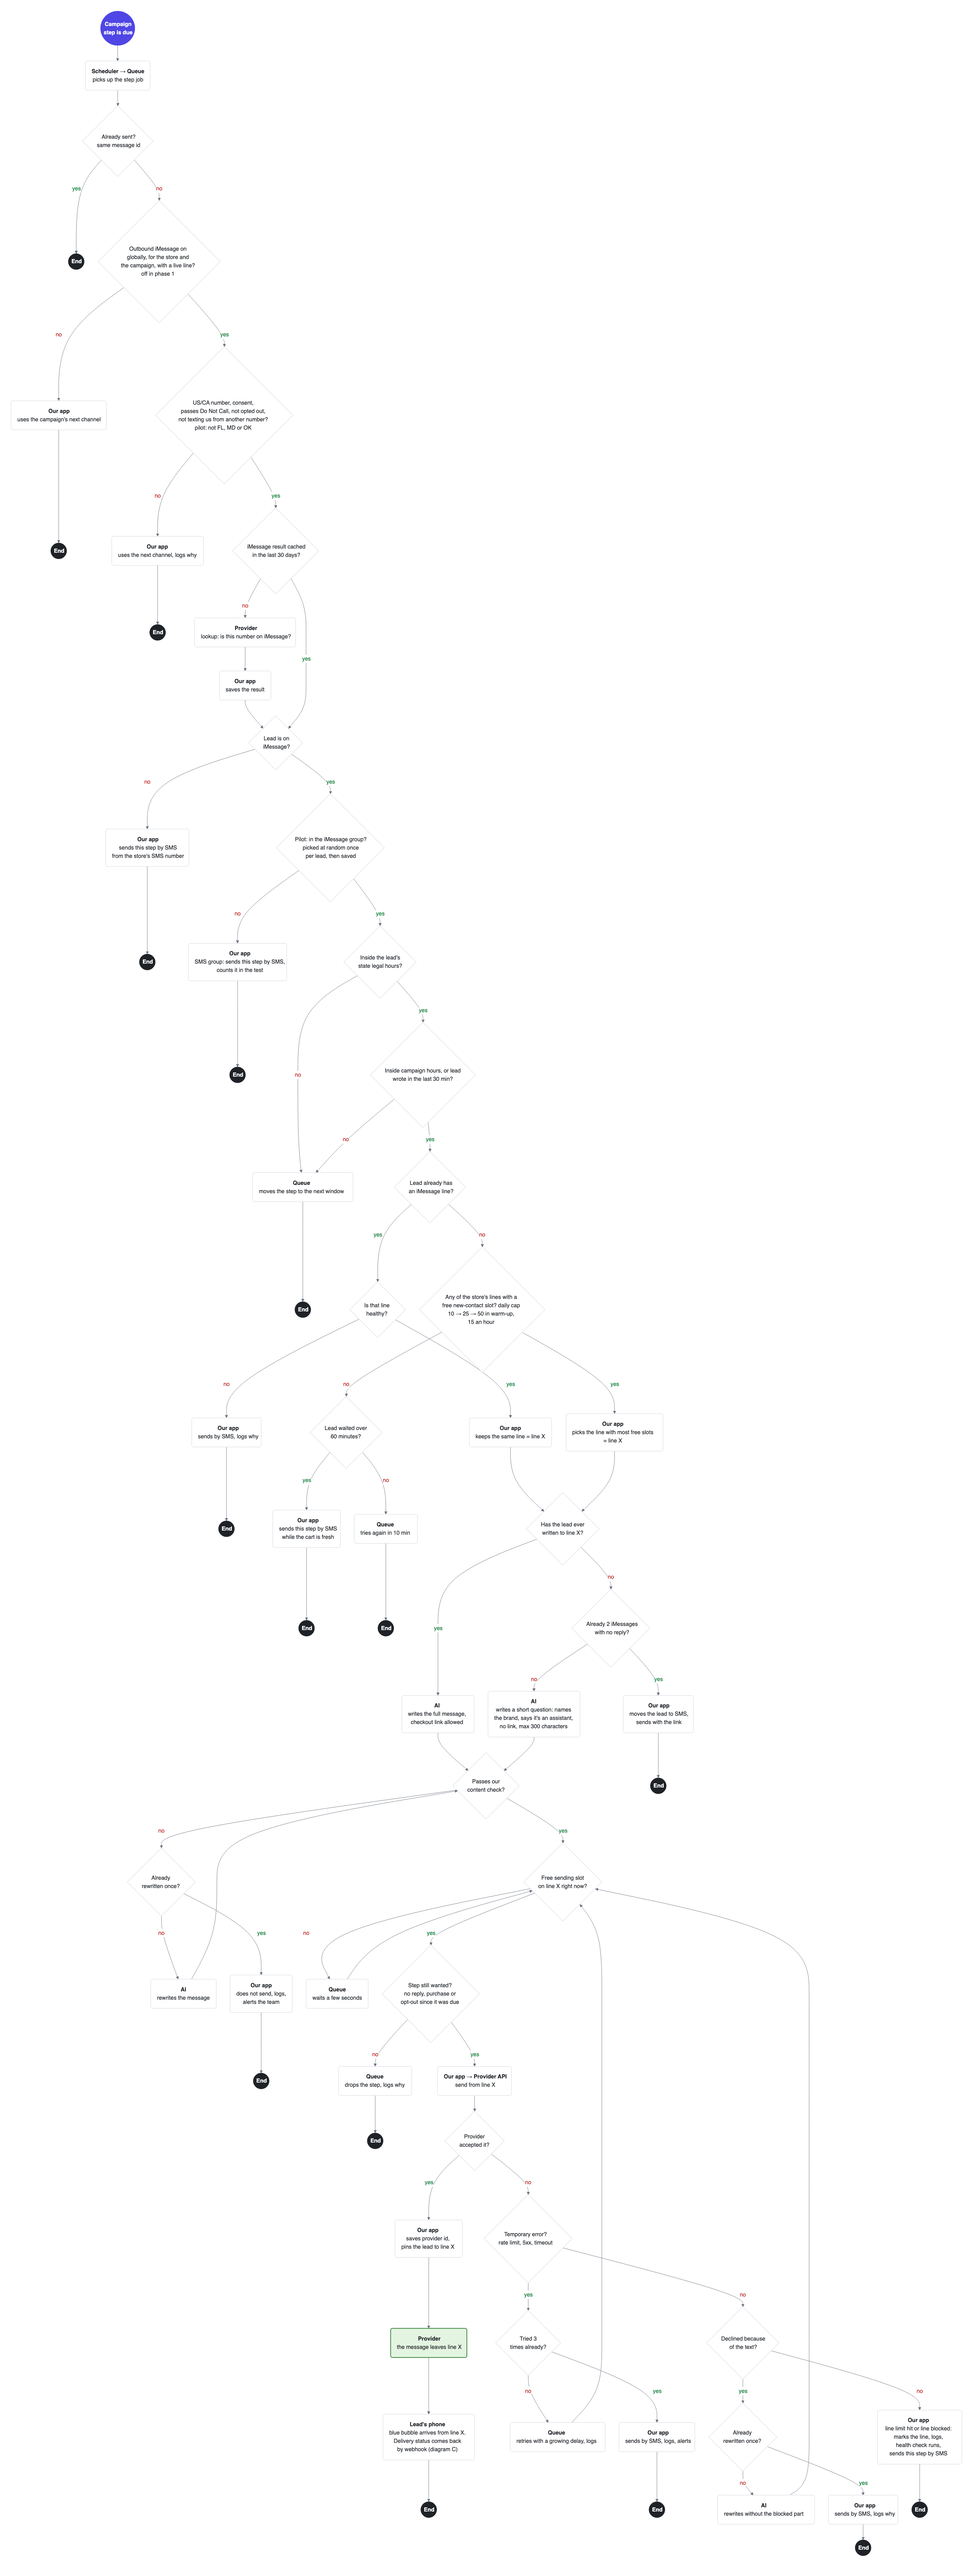
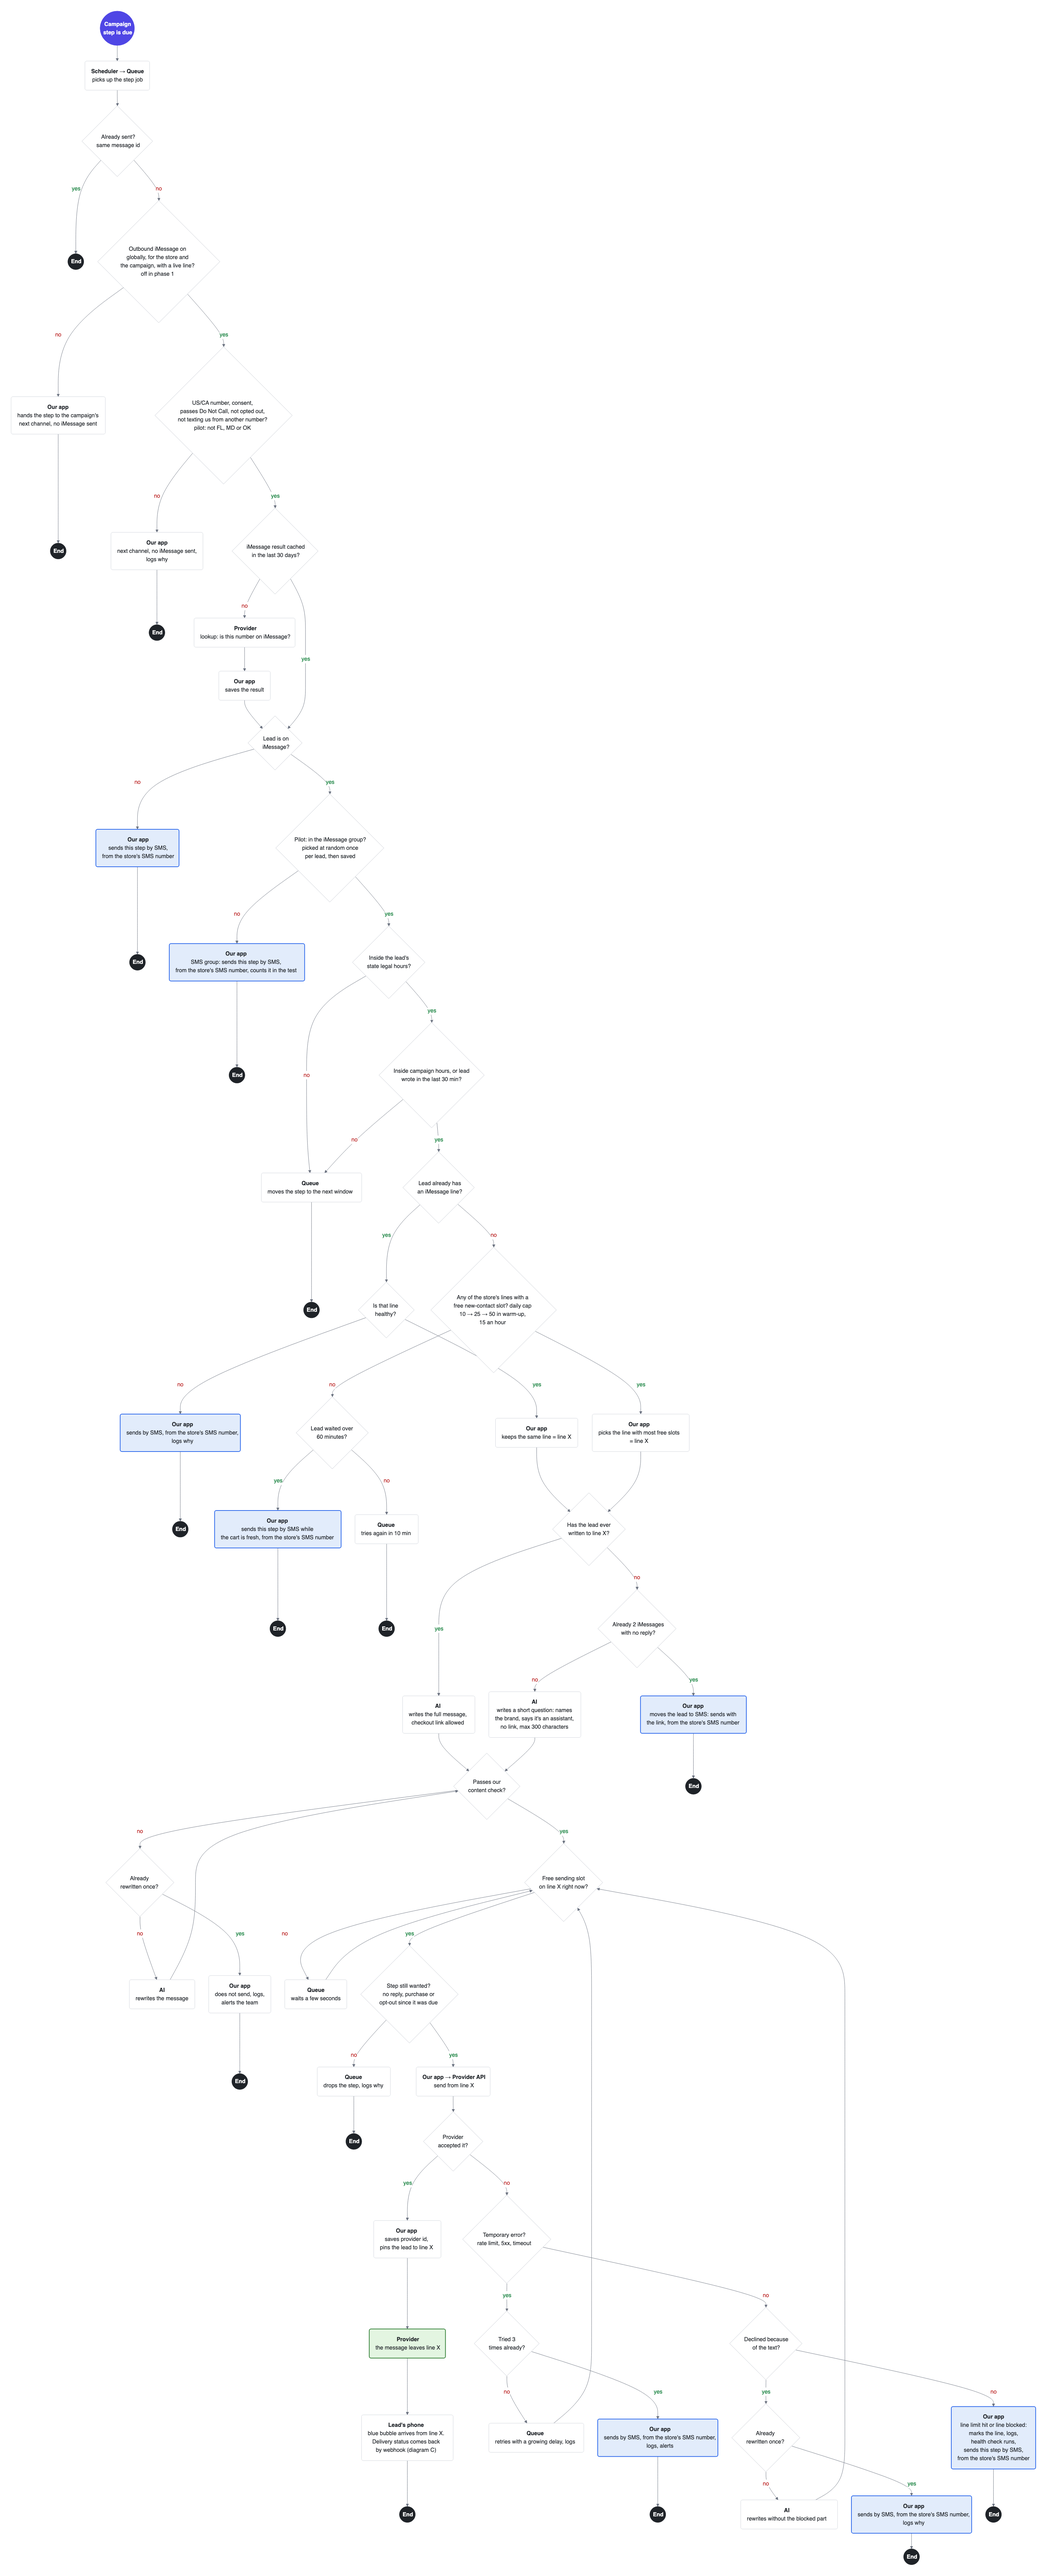
Show where every message goes out, and from which number
- Diagrams: every SMS send is a blue box that says it leaves the
  store's SMS number; iMessage sends stay green and leave line X.
  The legend defines line X. "Why B and C" is one line, as the brief
  asks.
- README: the Today lines describe what we know, in plain words.

diff --git a/diagrams.md b/diagrams.md
@@ -2,12 +2,13 @@
 
 Back to the plan: [README.md](README.md)
 
-**Why B and C:** these are where a message actually leaves a number and where replies come back. Most failures happen here, and so does the live chat. A (setting up lines) is done by our admins by hand in v1. D (line health) is covered by the automatic rules in the plan, section 3. In phase 1 only C runs: leads who tap "Prefer iMessage?" write first and enter at its top. B starts in phase 2.
+**Why B and C:** messages leave a number and replies come back only in these two, so most failures happen here. A is manual in v1, and D is covered by the plan's section 3.
 
 **How to read:**
-- 🟣 start (what triggers it) · ⚫ end, one per branch · ◇ a question, with yes and no arrows · ▢ an action, **bold** = who does it · 🟩 a message leaves a number
+- 🟣 start (what triggers it) · ⚫ end, one per branch · ◇ a question, with yes and no arrows · ▢ an action, **bold** = who does it · 🟩 an iMessage leaves line X · 🟦 an SMS leaves the store's SMS number
 - **Who does it:** our app, the queue, the AI, the provider, or the lead's phone.
-- **"By SMS"** hands the step to our existing SMS flow, which sends from the store's SMS number.
+- **Line X** is the store's iMessage line this lead is pinned to. Every iMessage to the lead comes from it.
+- **Blue boxes** hand the step to our existing SMS flow, which sends from the store's SMS number.
 - **Logging:** every refusal, retry, fallback and drop is logged with its reason and the provider's error key.
 
 ---
@@ -21,33 +22,33 @@ flowchart TD
     A1 --> Q0{"Already sent?<br/>same message id"}
     Q0 -- yes --> E0(("<b>End</b>"))
     Q0 -- no --> Q1{"Outbound iMessage on<br/>globally, for the store and<br/>the campaign, with a live line?<br/>off in phase 1"}
-    Q1 -- no --> F1("<b>Our app</b><br/>uses the campaign's next channel") --> E1(("<b>End</b>"))
+    Q1 -- no --> F1("<b>Our app</b><br/>hands the step to the campaign's<br/>next channel, no iMessage sent") --> E1(("<b>End</b>"))
     Q1 -- yes --> Q2{"US/CA number, consent,<br/>passes Do Not Call, not opted out,<br/>not texting us from another number?<br/>pilot: not FL, MD or OK"}
-    Q2 -- no --> F2("<b>Our app</b><br/>uses the next channel, logs why") --> E2(("<b>End</b>"))
+    Q2 -- no --> F2("<b>Our app</b><br/>next channel, no iMessage sent,<br/>logs why") --> E2(("<b>End</b>"))
     Q2 -- yes --> Q3{"iMessage result cached<br/>in the last 30 days?"}
     Q3 -- no --> L1("<b>Provider</b><br/>lookup: is this number on iMessage?") --> L2("<b>Our app</b><br/>saves the result") --> Q4
     Q3 -- yes --> Q4{"Lead is on<br/>iMessage?"}
-    Q4 -- no --> F3("<b>Our app</b><br/>sends this step by SMS<br/>from the store's SMS number") --> E3(("<b>End</b>"))
+    Q4 -- no --> F3("<b>Our app</b><br/>sends this step by SMS,<br/>from the store's SMS number"):::sms --> E3(("<b>End</b>"))
     Q4 -- yes --> QG{"Pilot: in the iMessage group?<br/>picked at random once<br/>per lead, then saved"}
-    QG -- no --> F11("<b>Our app</b><br/>SMS group: sends this step by SMS,<br/>counts it in the test") --> E15(("<b>End</b>"))
+    QG -- no --> F11("<b>Our app</b><br/>SMS group: sends this step by SMS,<br/>from the store's SMS number, counts it in the test"):::sms --> E15(("<b>End</b>"))
     QG -- yes --> QL{"Inside the lead's<br/>state legal hours?"}
     QL -- no --> R1("<b>Queue</b><br/>moves the step to the next window") --> E4(("<b>End</b>"))
     QL -- yes --> Q5{"Inside campaign hours, or lead<br/>wrote in the last 30 min?"}
     Q5 -- no --> R1
     Q5 -- yes --> Q6{"Lead already has<br/>an iMessage line?"}
     Q6 -- yes --> Q7{"Is that line<br/>healthy?"}
-    Q7 -- no --> F4("<b>Our app</b><br/>sends by SMS, logs why") --> E5(("<b>End</b>"))
+    Q7 -- no --> F4("<b>Our app</b><br/>sends by SMS, from the store's SMS number,<br/>logs why"):::sms --> E5(("<b>End</b>"))
     Q7 -- yes --> X1("<b>Our app</b><br/>keeps the same line = line X") --> Q10
     Q6 -- no --> Q8{"Any of the store's lines with a<br/>free new-contact slot? daily cap<br/>10 → 25 → 50 in warm-up,<br/>15 an hour"}
     Q8 -- yes --> X2("<b>Our app</b><br/>picks the line with most free slots<br/>= line X") --> Q10
     Q8 -- no --> Q9{"Lead waited over<br/>60 minutes?"}
-    Q9 -- yes --> F5("<b>Our app</b><br/>sends this step by SMS<br/>while the cart is fresh") --> E6(("<b>End</b>"))
+    Q9 -- yes --> F5("<b>Our app</b><br/>sends this step by SMS while<br/>the cart is fresh, from the store's SMS number"):::sms --> E6(("<b>End</b>"))
     Q9 -- no --> R2("<b>Queue</b><br/>tries again in 10 min") --> E7(("<b>End</b>"))
 
     Q10{"Has the lead ever<br/>written to line X?"}
     Q10 -- yes --> AI2("<b>AI</b><br/>writes the full message,<br/>checkout link allowed") --> QC
     Q10 -- no --> Q11{"Already 2 iMessages<br/>with no reply?"}
-    Q11 -- yes --> F6("<b>Our app</b><br/>moves the lead to SMS,<br/>sends with the link") --> E8(("<b>End</b>"))
+    Q11 -- yes --> F6("<b>Our app</b><br/>moves the lead to SMS: sends with<br/>the link, from the store's SMS number"):::sms --> E8(("<b>End</b>"))
     Q11 -- no --> AI1("<b>AI</b><br/>writes a short question: names<br/>the brand, says it's an assistant,<br/>no link, max 300 characters") --> QC
 
     QC{"Passes our<br/>content check?"}
@@ -69,27 +70,28 @@ flowchart TD
     Q13 -- no --> Q14{"Temporary error?<br/>rate limit, 5xx, timeout"}
     Q14 -- yes --> Q15{"Tried 3<br/>times already?"}
     Q15 -- no --> R4("<b>Queue</b><br/>retries with a growing delay, logs") --> Q12
-    Q15 -- yes --> F7("<b>Our app</b><br/>sends by SMS, logs, alerts") --> E10(("<b>End</b>"))
+    Q15 -- yes --> F7("<b>Our app</b><br/>sends by SMS, from the store's SMS number,<br/>logs, alerts"):::sms --> E10(("<b>End</b>"))
     Q14 -- no --> Q16{"Declined because<br/>of the text?"}
     Q16 -- yes --> Q17{"Already<br/>rewritten once?"}
     Q17 -- no --> AI3("<b>AI</b><br/>rewrites without the blocked part") --> Q12
-    Q17 -- yes --> F8("<b>Our app</b><br/>sends by SMS, logs why") --> E11(("<b>End</b>"))
-    Q16 -- no --> F9("<b>Our app</b><br/>line limit hit or line blocked:<br/>marks the line, logs,<br/>health check runs,<br/>sends this step by SMS") --> E12(("<b>End</b>"))
+    Q17 -- yes --> F8("<b>Our app</b><br/>sends by SMS, from the store's SMS number,<br/>logs why"):::sms --> E11(("<b>End</b>"))
+    Q16 -- no --> F9("<b>Our app</b><br/>line limit hit or line blocked:<br/>marks the line, logs,<br/>health check runs,<br/>sends this step by SMS,<br/>from the store's SMS number"):::sms --> E12(("<b>End</b>"))
 
     classDef start fill:#4f46e5,stroke:#4f46e5,color:#ffffff
     classDef finish fill:#1f2328,stroke:#1f2328,color:#ffffff
     classDef action fill:#ffffff,stroke:#d0d4db,color:#1f2328
     classDef decision fill:#ffffff,stroke:#c4c8d0,color:#1f2328
     classDef out fill:#e3f5e1,stroke:#2e7d32,stroke-width:2px,color:#1f2328
+    classDef sms fill:#e2ecfb,stroke:#2563eb,stroke-width:2px,color:#1f2328
     class S start
     class E0,E1,E2,E3,E15,E4,E5,E6,E7,E8,E13,E14,E9,E10,E11,E12 finish
     class Q0,Q1,Q2,Q3,Q4,QG,QL,Q5,Q6,Q7,Q8,Q9,Q10,Q11,QC,QC2,Q12,QS,Q13,Q14,Q15,Q16,Q17 decision
-    class A1,F1,F2,L1,L2,F3,F11,R1,F4,X1,X2,F5,R2,AI2,F6,AI1,AI4,F10,R3,X3,SEND,OK2,PH,R4,F7,AI3,F8,F9 action
+    class A1,F1,F2,L1,L2,R1,X1,X2,R2,AI2,AI1,AI4,F10,R3,X3,SEND,OK2,PH,R4,AI3 action
     linkStyle 2,6,9,13,16,19,22,24,25,28,31,34,38,41,48,50,53,56,58,63,66,69,72 color:#15803d,stroke:#6b7280
     linkStyle 3,4,7,10,14,17,20,23,26,30,33,36,40,43,45,46,51,54,62,64,68,70,74 color:#b91c1c,stroke:#6b7280
 ```
 
-🟣 start (what triggers it) · ⚫ end, one per branch · ◇ a question, with yes and no arrows · ▢ an action, **bold** = who does it · 🟩 a message leaves a number
+🟣 start (what triggers it) · ⚫ end, one per branch · ◇ a question, with yes and no arrows · ▢ an action, **bold** = who does it · 🟩 an iMessage leaves line X · 🟦 an SMS leaves the store's SMS number
 
 If the diagram doesn't render: [diagram-b.png](diagram-b.png)
 
@@ -117,7 +119,7 @@ flowchart TD
     Q5 -- yes --> D2("<b>Queue</b><br/>marks lead not on iMessage,<br/>clears the lookup cache,<br/>next steps go by SMS") --> E4(("<b>End</b>"))
     Q5 -- no --> D3("<b>Queue</b><br/>marks message failed,<br/>counts against the line, logs") --> Q6{"Line now<br/>in red?"}
     Q6 -- yes --> D4("<b>Our app</b><br/>stops new leads on the line,<br/>moves its chats to SMS,<br/>alerts Slack and the store") --> E5(("<b>End</b>"))
-    Q6 -- no --> D5("<b>Queue</b><br/>sends the step by SMS") --> E6(("<b>End</b>"))
+    Q6 -- no --> D5("<b>Queue</b><br/>sends the step by SMS,<br/>from the store's SMS number"):::sms --> E6(("<b>End</b>"))
 
     Q3 -- yes --> Q7{"Number, or the code in<br/>a 'Prefer iMessage?' text,<br/>matches a lead of this<br/>line's store?"}
     Q7 -- no --> R1("<b>Our app</b><br/>saves to the inbox,<br/>tells the store") --> E7(("<b>End</b>"))
@@ -135,7 +137,7 @@ flowchart TD
     Q11 -- no --> QC{"Answer passes our<br/>content check?"}
     QC -- no --> R4
     QC -- yes --> Q12{"Line X still<br/>healthy?"}
-    Q12 -- no --> R6("<b>Our app</b><br/>sends the answer by SMS<br/>from the store's SMS number") --> E10(("<b>End</b>"))
+    Q12 -- no --> R6("<b>Our app</b><br/>sends the answer by SMS,<br/>from the store's SMS number"):::sms --> E10(("<b>End</b>"))
     Q12 -- yes --> QL{"Inside the lead's<br/>state legal hours?"}
     QL -- no --> R9("<b>Queue</b><br/>holds the answer<br/>until the hours open") --> R7
     QL -- yes --> R7("<b>Queue</b><br/>priority send job on line X,<br/>campaign hours skipped:<br/>lead is active")
@@ -149,14 +151,15 @@ flowchart TD
     classDef action fill:#ffffff,stroke:#d0d4db,color:#1f2328
     classDef decision fill:#ffffff,stroke:#c4c8d0,color:#1f2328
     classDef out fill:#e3f5e1,stroke:#2e7d32,stroke-width:2px,color:#1f2328
+    classDef sms fill:#e2ecfb,stroke:#2563eb,stroke-width:2px,color:#1f2328
     class S,S2 start
     class E1,E2,E3,E4,E5,E6,E7,E8,E9,E10,E11,E12 finish
     class Q1,Q2,Q3,Q4a,Q4,Q5,Q6,Q7,Q8,Q9,Q10,Q11,QC,Q12,QL,Q13 decision
-    class P1,CU,X1,X2,A1,D1,D2,D3,D4,D5,R1,R2,R3,R4,TY,R5,AI,R6,R9,R7,PH,R8 action
+    class P1,CU,X1,X2,A1,D1,D2,D3,D4,R1,R2,R3,R4,TY,R5,AI,R9,R7,PH,R8 action
     linkStyle 6,7,12,14,17,21,25,28,29,34,39,42,45,48,51,53 color:#15803d,stroke:#6b7280
     linkStyle 4,9,11,13,16,19,23,26,32,36,40,43,44,46,49,56 color:#b91c1c,stroke:#6b7280
 ```
 
-🟣 start (what triggers it) · ⚫ end, one per branch · ◇ a question, with yes and no arrows · ▢ an action, **bold** = who does it · 🟩 a message leaves a number
+🟣 start (what triggers it) · ⚫ end, one per branch · ◇ a question, with yes and no arrows · ▢ an action, **bold** = who does it · 🟩 an iMessage leaves line X · 🟦 an SMS leaves the store's SMS number
 
 If the diagram doesn't render: [diagram-c.png](diagram-c.png)

diff --git a/README.md b/README.md
@@ -8,7 +8,7 @@ Tadas Vinckas · [Diagrams](diagrams.md)
 
 ## 1. Provider: which one, and why
 
-- **Today:** none. **Compared:** Blooio, Linq, Sendblue (2026 breach), Photon, own Macs.
+- **Today:** no provider yet. **Compared:** Blooio, Linq, Sendblue (2026 breach), Photon, own Macs.
 - **Suggestion: Blooio**, with a data agreement, and its SOC 2 done before we scale.
 - **Why:** public prices ($195 a line at 6+), live in days, hard limits that catch our mistakes.
 
@@ -28,12 +28,12 @@ Tadas Vinckas · [Diagrams](diagrams.md)
 |---|---|---|---|
 | **Sending hours** | Every step waits for sending hours. | Reply at once to a lead who just wrote, within the law. | Live chat: a next-morning answer loses the lead. |
 | **Reply limit** | After 5 replies, a person takes over. | Keep the chat going, up to 30 AI replies, then a person. | Going silent mid-chat loses the lead. |
-| **Sender number** | Each channel has its own number. | One number per lead, changed only on fallback. | A second number looks like a scam. |
+| **Sender number** | Each store texts from its SMS number. | One number per lead, changed only on fallback. | A second number looks like a scam. |
 | **Follow-ups** | Steps run on schedule. | A reply or purchase cancels them. | No "still thinking?" after "yes, buying". |
 
 ## 3. Line health: how the team learns without a dashboard
 
-- **Today:** nothing is tracked per number.
+- **Today:** there are no iMessage lines yet, so there is nothing to watch.
 - **Suggestion:** a job checks every line every 15 minutes and acts on its own:
   - **Yellow** (delivery under 90% or opt-outs over 2%): halve the daily limit, alert Slack.
   - **Red** (blocked, or delivery under 70%): no new leads, chats go to SMS, alert Slack.
@@ -41,13 +41,13 @@ Tadas Vinckas · [Diagrams](diagrams.md)
 
 ## 4. Who turns it on: our admins, every store, or a plan
 
-- **Today:** stores switch channels on in their settings.
+- **Today:** each campaign switches its channels on: calls, SMS, email, WhatsApp.
 - **Suggestion:** only our admins in v1, and we pay for pilot lines. Later, a paid add-on per line.
 - **Why:** lines cost money and need warm-up, and one bad store can get us all banned.
 
 ## 5. Which leads get it, and what happens to the rest
 
-- **Today:** every lead gets every channel the campaign has on.
+- **Today:** a lead is reached on every channel their campaign has switched on.
 - **Suggestion:** only leads with a US/CA number, consent and iMessage (we check first).
 - **Phase 2:** half of them get iMessage and half SMS, picked at random.
 - **The rest** (Android, no consent, no free line): the next channel, usually SMS. We log why.
